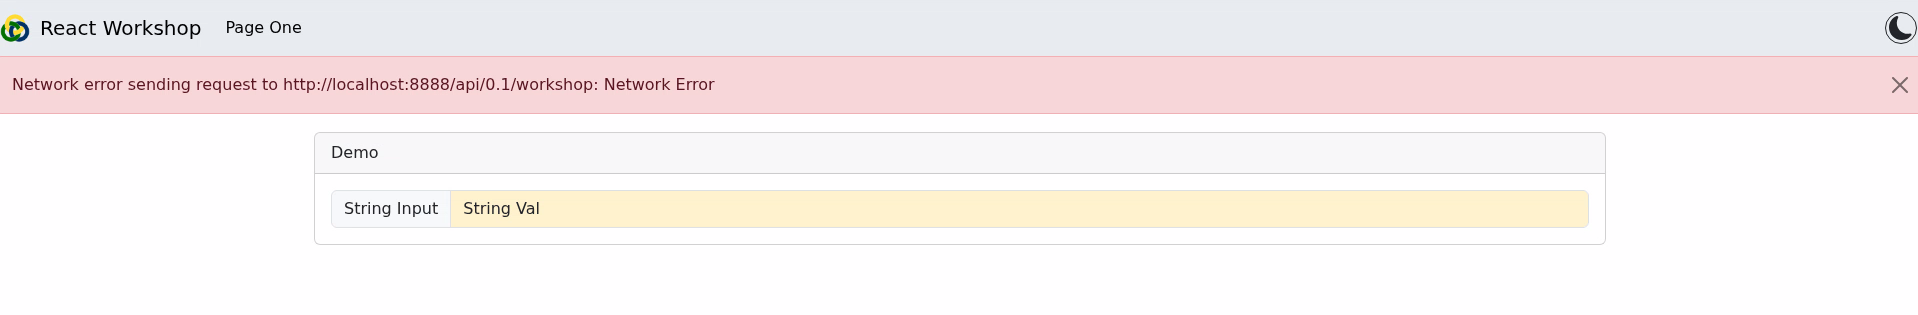
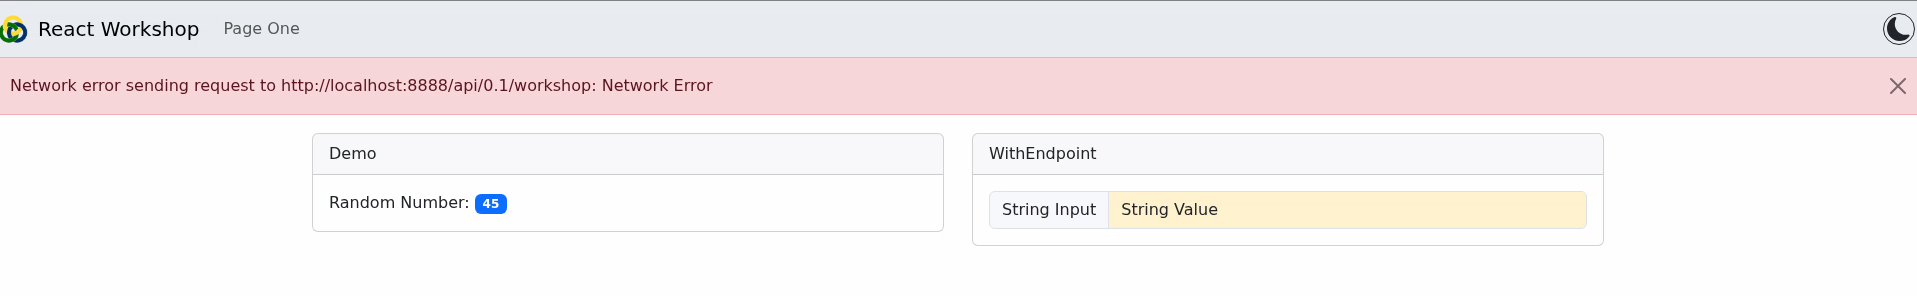
Added Periodic Endpoint and how to display data from the Endpoint sections to Workshop Updated images to match changes

diff --git a/README.md b/README.md
@@ -115,7 +115,7 @@ Select a template
   [3/6] Name of the adapter that the default template will connect to (reactworkshopAdapter): workshop
   [4/6] Name the main folder the application will be in (app): 
   [5/6] The default endpoint of the Odin Control instance (http://localhost:8888): http://localhost:8888
-  [6/6] Include the optional Plotly package for graphing [y/n] (n): yes
+  [6/6] Include the optional Plotly package for graphing [y/n] (n): no
 ```
 
 Once created, you need to ensure the dependencies are installed and ready, and then you can start developing the app:
@@ -191,7 +191,7 @@ import { TemplatePage } from './TemplatePage';
 
 import type { ParamTree } from 'odin-react';
 
-const interface ParamTreeTypes extends ParamTree {
+export interface ParamTreeTypes extends ParamTree {
     string_val: string;
     num_val: number;
     num_details: {
@@ -232,11 +232,15 @@ import Container from "react-bootstrap/Container";
 import Row from 'react-bootstrap/Row';
 import Col from 'react-bootstrap/Col';
 
+// import the types we need to define the Prop
 import type { AdapterEndpoint_t } from 'odin-react';
+import type { ParamTreeTypes } from "./App";
 
 // its common practice to define the props for a component in an interface
 interface TemplateProps {
-    endpoint: AdapterEndpoint_t;
+    //define a prop called "endpoint" that is an Endpoint,
+    // which returns data that matches the shape of ParamTreeTypes
+    endpoint: AdapterEndpoint_t<ParamTreeTypes>;
 }
 
 //pass the interface as a Type Variable to the return type of TemplatePage (React.FC)
@@ -276,9 +280,80 @@ return (
 
 ```
 
+### Using the Endpoint Data
+
+- The endpoint provides a `data` object we can reference to display our parameters.
+- Since we previously used the `interface` to tell the endpoint whats available on the Parameter Tree, accessing those defined parameters is simple
+
+We can add a label to the GUI that displays the current value of the `rand_num` parameter. This number gets updated periodically, so we can watch it for changes.
+
+``` TSX
+
+// Other Imports
+...
+
+import Badge from "react-bootstrap/Badge";
+
+// its common practice to define the props for a component in an interface
+interface TemplateProps {
+    endpoint: AdapterEndpoint_t<ParamTreeTypes>;
+}
+
+export const TemplatePage: React.FC<TemplateProps> = (props) => {
+
+    const {endpoint} = props;
+
+    return (
+        <Container>
+        <Row>
+        <Col>
+            <TitleCard title="Demo">
+                {/* Get the parameter out of the tree just using Dot Notation */}
+                Random Number: <Badge>{endpoint.data.rand_num}</Badge>
+            </TitleCard>
+        </Col>
+        </Row>
+        </Container>
+    )
+}
+
+```
+
+If we return to the browser, the changes made to the page should have been reloaded and the Input but now visible:
+
+<p align="center">
+<img src="./images/react_workshop_added_badge.png"/>
+</p>
+
+However, this displayed number is not changing, even though the one in the adapter is. It only changes when we reload the page.
+This is because our AdapterEndpoint only `GETS` from the API when it's told to, which in this example is only when it first loads.
+We can tell it to constantly poll by making it `Periodic`. We do that by providing it with a value in milliseconds for how often to perform this `GET` request and update the data in the GUI
+
+``` TSX
+//app.tsx
+...
+
+function App() {
+    // an Interval of 1000 means it will do a GET request every second and refresh itself.
+    const endpoint = useAdapterEndpoint<ParamTreeTypes>("workshop", import.meta.env.VITE_ENDPOINT_URL, 1000);
+
+    ...
+```
+Make this change, and then return to the Browser to see that the number now updates. You can also see that it is working by checking the output from `Odin Control` and see the repeated GET requests:
+```bash
+[D 250729 14:41:19 controller:84] GET request received at path: 
+[D 250729 14:41:19 server:138] 200 GET /api/0.1/workshop (127.0.0.1) 1.33ms
+[D 250729 14:41:20 controller:84] GET request received at path: 
+[D 250729 14:41:20 server:138] 200 GET /api/0.1/workshop (127.0.0.1) 1.36ms
+[D 250729 14:41:21 controller:84] GET request received at path: 
+[D 250729 14:41:21 server:138] 200 GET /api/0.1/workshop (127.0.0.1) 1.34ms
+[D 250729 14:41:22 controller:84] GET request received at path: 
+[D 250729 14:41:22 server:138] 200 GET /api/0.1/workshop (127.0.0.1) 1.30ms
+```
+
 ### Creating A Component that uses the Endpoint
 
-We now need to create a component that can use the `Endpoint` that can read and write one of the Parameters. We can do this with the [WithEndpoint](https://github.com/stfc-aeg/odin-react/wiki/WithEndpoint) Higher Order Component, which will return a component that has the required props and event handlers to make use of the `Endpoint`.
+We now need to create a component that can not only read from the `endpoint`, but write to the Parameters. We can do this with the [WithEndpoint](https://github.com/stfc-aeg/odin-react/wiki/WithEndpoint) Higher Order Component, which will return a component that has the required props and event handlers to make use of the `Endpoint`.
 
 Lets start with a [textbox](https://react-bootstrap.netlify.app/docs/forms/form-control):
 ``` TSX
@@ -292,6 +367,8 @@ import { WithEndpoint } from 'odin-react';
 import Container from "react-bootstrap/Container";
 import Row from 'react-bootstrap/Row';
 import Col from 'react-bootstrap/Col';
+
+import Badge from "react-bootstrap/Badge";
 
 //import the Form component from bootstrap
 import Form from 'react-bootstrap/Form';
@@ -328,6 +405,12 @@ import InputGroup from 'react-bootstrap/InputGroup';
         <Row>
         <Col>
             <TitleCard title="Demo">
+                {/* Get the parameter out of the tree just using Dot Notation */}
+                Random Number: <Badge>{endpoint.data.rand_num}</Badge>
+            </TitleCard>
+        </Col>
+        <Col> {/*We can do the input in a separate Titlecard to demonstrate how the Rols/Cols work*/}
+            <TitleCard title="WithEndpoint">
                 {/*endpoint and fullpath are the only two REQUIRED props for a WithEndpoint component*/}
                 <InputGroup>
                     <InputGroup.Text>String Input</InputGroup.Text>
@@ -380,6 +463,15 @@ The `EndpointInput` component can also be used for other Parameters in the same 
 <p align="center">
 <img src="./images/react_workshop_input_error.png"/>
 </p>
+
+- It can be worth creating fallback values for things like the Badge that display the value, in case the data isn't available straight away. This can be done with a [Nullish Coalescing Operator](https://developer.mozilla.org/en-US/docs/Web/JavaScript/Reference/Operators/Nullish_coalescing)
+
+```TSX
+<TitleCard title="Demo">
+    {/* Get the parameter out of the tree just using Dot Notation */}
+    Random Number: <Badge>{endpoint.data.rand_num ?? "Undefined"}</Badge>
+</TitleCard>
+```
 
 ## Layout
 
